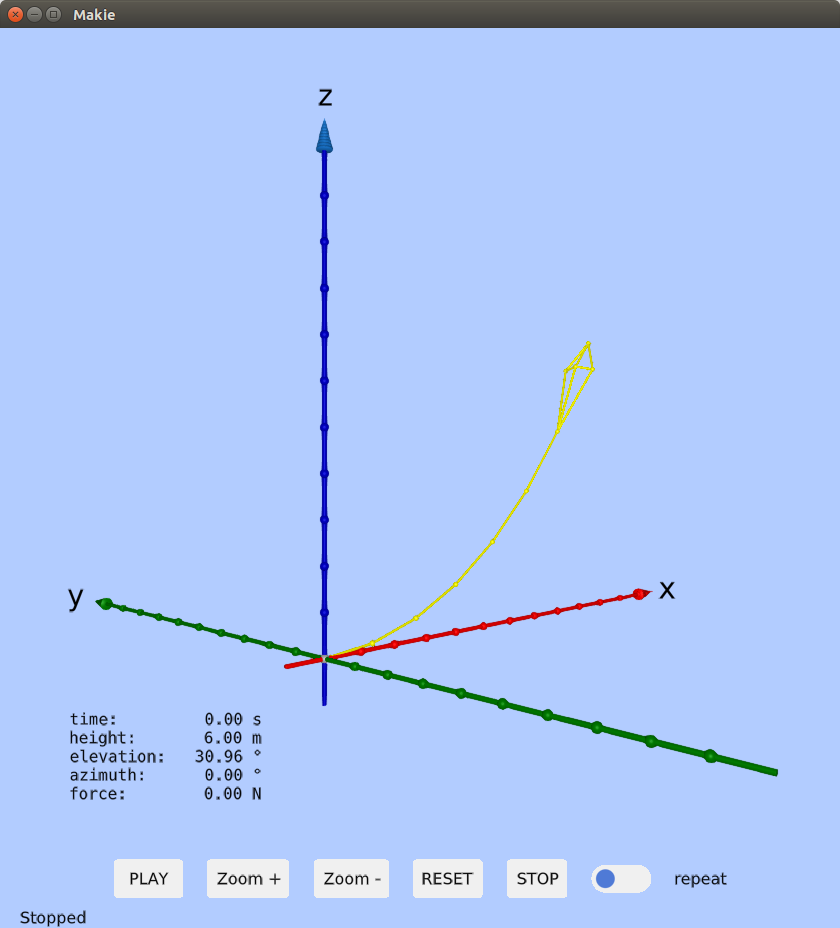
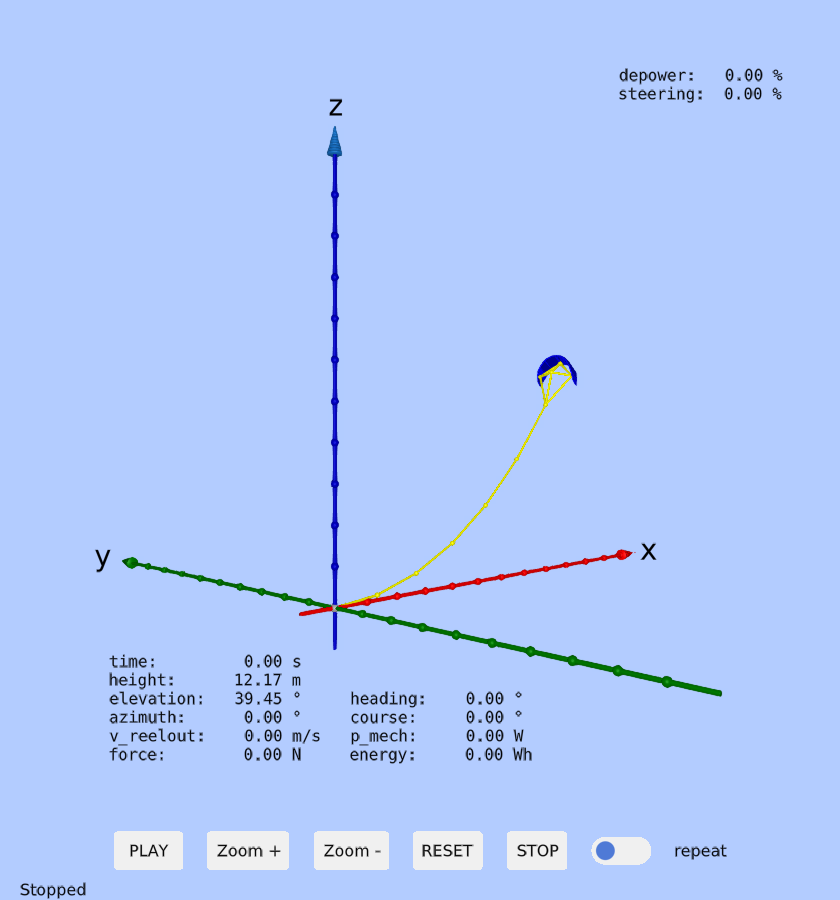
Update README.md

diff --git a/README.md b/README.md
@@ -63,10 +63,10 @@ The same example, but using the 4 point kite model:
 
 ```julia
 using KiteViewers, KiteUtils
-viewer=Viewer3D(false);
+viewer=Viewer3D(true);
 segments=6
 state=demo_state_4p(segments+1)
-update_system(viewer, state, kite_scale=0.5)
+update_system(viewer, state, kite_scale=0.25)
 ```
 <p align="center"><img src="./kite_4p.png" width="500" /></p>
 
